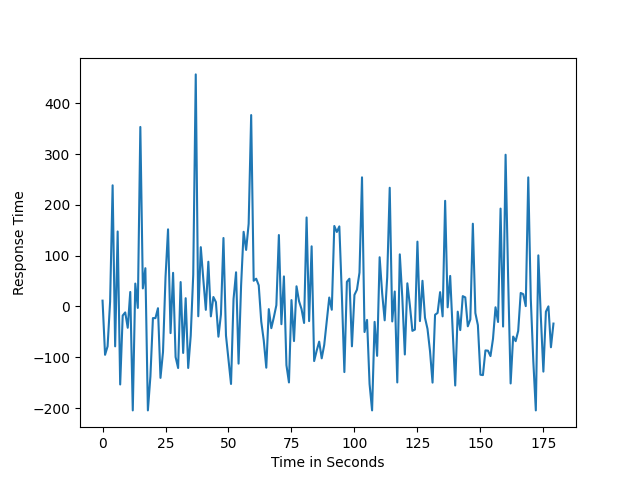
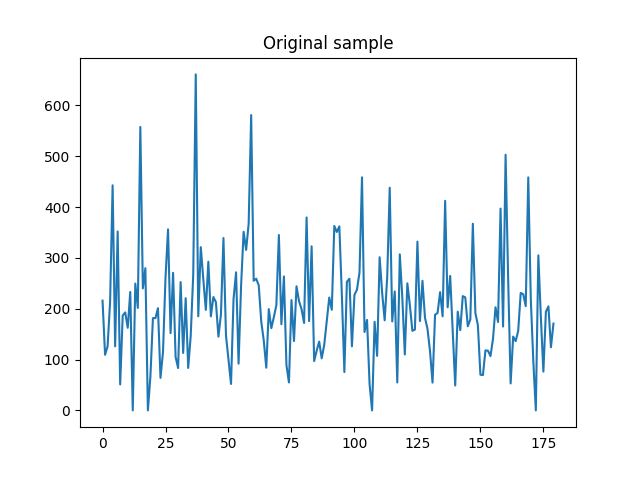
docs(006): add correct hamming filter

diff --git a/006/get_samples.py b/006/get_samples.py
@@ -4,7 +4,6 @@ import os
 import matplotlib.pyplot as plt
 
 from env_vars import RESOLUTION
-from fetch_logs import fetch_logs
 from get_fft import get_fft
 
 def load_json(filename):
@@ -19,8 +18,15 @@ def generate_points(sample):
     m['point']['values']['95.0'] or 0
     for m in sample['intervals']['buckets']
   ]
+  plt.title('Original sample')
+  plt.plot(points)
+  plt.show()
   label = 1.0 if len(list(filter(lambda x: x > 5000, points))) < 10 else 0.0
   fft = get_fft(numpy.array(points))
+
+  plt.title('Sample converted to FFT')
+  plt.plot(fft)
+  plt.show()
   return points + fft + [label]
 
 def get_samples():

diff --git a/006/get_fft.py b/006/get_fft.py
@@ -2,13 +2,14 @@ import matplotlib.pyplot as plt
 import numpy as np
 
 def get_fft(sample):
-  # sample -= sample.mean()
-
+  sample -= sample.mean()
+  plt.title('Sample after mean is removed')
   plt.plot(sample)
   plt.show()
   hamm_weight = np.hamming(len(sample))
   sample_multiplied_hamm = sample * hamm_weight
 
+  plt.title('Sample after applying hamming filter')
   plt.plot(sample_multiplied_hamm)
   plt.show()
 

diff --git a/006/show_sample_with_fft.py b/006/show_sample_with_fft.py
@@ -8,6 +8,6 @@ data = samples[:, 0:-1]
 
 sample = data[0]
 
-
+plt.title('Sample with FFT')
 plt.plot(np.arange(len(sample)), sample)
 plt.show()

diff --git a/006/docs/adding-input-dimensions.md b/006/docs/adding-input-dimensions.md
@@ -6,13 +6,6 @@ The goal of this step is to establish a workflow in determining what alternative
 
 The frequency domain representation of a signal allows you to observe several characteristics of the signal that are either not easy to see, or not visible at all when you look at the signal in the time domain.
 
-### Plot of original sample data
-```python
-plt.plot(sample)
-```
-![Original data](./images/original-data.png "Original")
-
-
 ### Hamming Window
 ```python
 hamm_weight = np.hamming(len(sample))
@@ -20,56 +13,41 @@ plt.plot(hamm_weight)
 ```
 ![Hamming Window](./images/hamming-window.png "Hamming")
 
-### Plot of sample after applying hamming window
+### Plot of original sample
 ```python
+plt.plot(sample)
+```
+![Original data](./images/original-data.png "Original")
+
+### Plot of sample after removing mean
+```python
+sample -= sample.mean()
+plt.plot(sample)
+```
+![Sample Mean Removed](./images/sample-mean-removed.png "Sample Mean Removed")
+
+### Sample after applying hamming filter
+```python
+hamm_weight = np.hamming(len(sample))
 sample_multiplied_hamm = sample * hamm_weight
 plt.plot(sample_multiplied_hamm)
 ```
 ![Sample Applied Hamming](./images/sample-applied-hamming.png "Sample Applied Hamming")
 
-### Plot of sample in frequency domain (without hamming window)
-
-```python
-fft = np.fft.rfft(sample)
-freqs = np.fft.rfftfreq(sample.size)
-y = np.abs(fft)
-plt.plot(freqs, y)
-```
-
-![FFT 1](./images/fft-v1.png "FFT1")
-
-### Plot of sample in frequency domain (with hamming window)
+### Sample converted to FFT
 ```python
 fft = np.fft.rfft(sample_multiplied_hamm)
-freqs = np.fft.rfftfreq(sample_multiplied_hamm.size)
-y = np.abs(fft)
-plt.plot(freqs, y)
+y = np.ndarray.tolist(np.abs(fft))
+plt.plot(y)
 ```
-![FFT 2](./images/fft-v2.png "FFT2")
+![Sample Converted to FFT](./images/sample-to-fft.png "Sample Converted to FFT")
 
-### Plot of sample in frequency domain (without hamming window) and mean removed
+### Sample appended with its own FFT
 ```python
-sample -= sample.mean()
-
-fft = np.fft.rfft(sample)
-freqs = np.fft.rfftfreq(sample.size)
-y = np.abs(fft)
-plt.plot(freqs, y)
+new_datapoints = sample + y
+plt.plot(new_datapoints)
 ```
-![FFT 3](./images/fft-v3.png "FFT3")
-
-### Plot of sample in frequency domain (with hamming window) and mean removed
-![FFT 4](./images/fft-v4.png "FFT4")
-
-### Plot of sample side by side with its fft
-![Sample with FFT](./images/sample-with-fft.png "SampleWithFFT")
-
-### Results
-```
-Accuracy = 0.9702868852459017
-Precision = 0.9978354978354979
-Recall = 0.9715489989462592
-```
+![Sample With FFT](./images/sample-with-fft.png "Sample With FFT")
 
 ## Resources
 1. [Partial Introduction to Frequency-Domain Analysis](https://www.mathworks.com/help/signal/ug/practical-introduction-to-frequency-domain-analysis.html)
